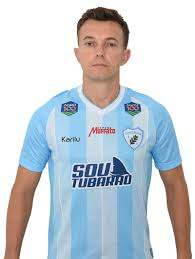
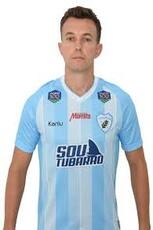
Add files via upload

diff --git a/index.html b/index.html
@@ -21,65 +21,22 @@
       <label for="menu" class="container__rotulo">
         <span class="cabeçalho__menu-hamburguer container__imagem"></span>
       </label>
-      <ul class="lista-menu">
-        <li class="lista-menu__titulo">Categorias</li>
-        <li class="lista-menu__item">
-          <a href="#" class="lista-menu__link">Programação</a>
-        </li>
-        <li class="lista-menu__item">
-          <a href="#" class="lista-menu__link">Front-end</a>
-        </li>
-        <li class="lista-menu__item">
-          <a href="#" class="lista-menu__link">Infraestrutura</a>
-        </li>
-        <li class="lista-menu__item">
-          <a href="#" class="lista-menu__link">Business</a>
-        </li>
-        <li class="lista-menu__item">
-          <a href="#" class="lista-menu__link">Design & UX</a>
-        </li>
       </ul>
-      <img src="img/Logo.svg" alt="Logo da Alurabooks" class="container__imagem">
-      <h1 class="container__titulo"><b class="container__titulo--negrito">Alura</b>Books</h1>
+      <img src="img/lec1.png" alt="Logo da Alurabooks" class="container__imagem">
+      <h1 class="container__titulo"><b class="container__titulo--negrito">Londrina</b> EC</h1>
 
       <ul class="opções">
         <input type="checkbox" id="opções-menu" class="opções__botão" />
         <label for="opções-menu" class="opções__rotulo">
-          <li class="opções__item">Categorias</li>
         </label>
 
         <ul class="lista-menu">
-          <li class="lista-menu__item">
-            <a href="#" class="lista-menu__link">Programação</a>
-          </li>
-          <li class="lista-menu__item">
-            <a href="#" class="lista-menu__link">Front-end</a>
-          </li>
-          <li class="lista-menu__item">
-            <a href="#" class="lista-menu__link">Infraestrutura</a>
-          </li>
-          <li class="lista-menu__item">
-            <a href="#" class="lista-menu__link">Business</a>
-          </li>
-          <li class="lista-menu__item">
-            <a href="#" class="lista-menu__link">Design & UX</a>
           </li>
         </ul>
-        <li class="opções__item"><a href="#" class="opções__link">Favoritos</a></li>
-        <li class="opções__item"><a href="#" class="opções__link">Minha estante</a></li>
       </ul>
 
     </div>
     <div class="container">
-      <a href="#"><img src="img/Favoritos.svg" alt="Meus favoritos"
-          class="container__imagem container__imagem-transparente"></a>
-      <a href="#" class="container__link">
-        <img src="img/Compras.svg" alt="Carrinhos de compras" class="container__imagem">
-        <p class="container__texto">Minha sacola</p>
-      </a>
-      <a href="#" class="container__link">
-        <img src="img/Usuario.svg" alt="Meu perfil" class="container__imagem">
-        <p class="container__texto">Meu perfil</p>
       </a>
     </div>
   </header>
@@ -176,26 +133,23 @@
         <div class="card__descrição">
           <!-- 1º coluna -->
           <div class="descrição">
-            <img src="img/Estrelinhas.svg" alt="Avaliação 5 estrelas">
-            <h3 class="descrição__titulo">Autora do Mês</h3>
-            <h2 class="descrição__titulo-livro">Juliana Agarikov</h2>
-            <p class="descrição__texto">Analista de sistemas e escritora, Juliana é especialista em
-              Front-End.
+            <img src="img/Estrelinhas.svg" alt="">
+            <h3 class="descrição__titulo">Próximo jogo</h3>
+            <h2 class="descrição__titulo-livro">Londrina x Naútico</h2>
+            <p class="descrição__texto">O JOGO DO ANO!!!
             </p>
           </div>
           <!-- 2º coluna -->
-          <img src="img/Escritora.svg" class="descrição__imagem">
+          <img src="img/lec.png" class="descrição__imagem">
         </div>
 
         <!-- 2º linha -->
         <div class="card__botões">
           <!-- 1º coluna -->
           <ul class="botões">
-            <li class="botões__item"><img src="img/Favoritos.svg" alt="Favoritar livro"></li>
-            <li class="botões__item"><img src="img/Compras.svg" alt="Adicionar no carrinho de compras"></li>
           </ul>
           <!-- 2º coluna -->
-          <a href="#" class="botões__ancora">Saiba mais</a>
+          <a href="https://www.google.com/search?q=londrina+x+nautico&oq=londrina+x+nau&gs_lcrp=EgZjaHJvbWUqDQgAEAAYgwEYsQMYgAQyDQgAEAAYgwEYsQMYgAQyBggBEAAYAzIGCAIQRRg5MgoIAxAAGA8YFhgeMgoIBBAAGIAEGKIEqAIAsAIA&sourceid=chrome&ie=UTF-8#sie=m;/g/11vyfd66jf;2;/m/0fnkby;dt;fp;1;;;" class="botões__ancora">Saiba mais</a>
         </div>
       </div>
     </div>
@@ -206,27 +160,18 @@
   <section class="tópicos">
     <h2 class="tópicos__titulo">TÓPICOS VISITADOS RECENTEMENTE</h2>
     <ul class="tópicos__lista">
-      <li class="tópicos__item"><a href="#" class="tópicos__link">Android</a></li>
+      <li class="tópicos__item"></li>
       <li class="tópicos__item">
-        <a href="#" class="tópicos__link">Marketing Digital</a>
+        <a href="https://pt.wikipedia.org/wiki/Londrina_Esporte_Clube" class="tópicos__link">História</a>
       </li>
       <li class="tópicos__item">
-        <a href="#" class="tópicos__link">Agile</a>
+        <a href="https://pt.wikipedia.org/wiki/Londrina_Esporte_Clube#T%C3%ADtulos" class="tópicos__link">Títulos</a>
       </li>
       <li class="tópicos__item">
-        <a href="#" class="tópicos__link">Startups</a>
+        <a href="https://www.londrinaesporteclube.com.br/futebol/profissional/elenco" class="tópicos__link">Elenco</a>
       </li>
       <li class="tópicos__item">
-        <a href="#" class="tópicos__link">HTML & CSS</a>
-      </li>
-      <li class="tópicos__item">
-        <a href="#" class="tópicos__link">Python</a>
-      </li>
-      <li class="tópicos__item">
-        <a href="#" class="tópicos__link">OO</a>
-      </li>
-      <li class="tópicos__item">
-        <a href="#" class="tópicos__link">Java</a>
+        <a href="https://pt.wikipedia.org/wiki/Est%C3%A1dio_do_Caf%C3%A9" class="tópicos__link">Estádio</a>
       </li>
     </ul>
   </section>
@@ -235,7 +180,7 @@
     <div class="contato__descrição">
       <h2 class="contato__titulo">Fique por dentro das novidades!</h2>
       <p class="contato__texto">
-        Atualizações de e-books, novos livros, promoções e outros.
+        Atualizações de próximos jogos, elenco, entre outras coisas do MAIOR DO INTERIOR.
       </p>
     </div>
     <input type="email" placeholder="        Cadastre seu e-mail" class="contato__email">
@@ -244,82 +189,8 @@
   <hr />
 
   <footer class="rodapé">
-    <h2 class="rodapé__titulo">Grupo Alura</h2>
-    <ul class="lista-rodapé">
-      <li class="lista-rodapé__titulo">Educação</li>
-      <li class="lista-rodapé__item">
-        <img src="img/Caelum.svg" alt="Logo da Caelum" />
-        <a href="#" class="lista-rodapé__link">Caelum</a>
-      </li>
-      <li class="lista-rodapé__item">
-        <img src="img/CasaDoCodigo.svg" alt="Logo da Casa do Código" />
-        <a href="#" class="lista-rodapé__link">Casa do Código</a>
-      </li>
-    </ul>
-
-    <ul class="lista-rodapé">
-      <li class="lista-rodapé__titulo">Educação online</li>
-      <li class="lista-rodapé__item">
-        <img src="img/Alura.svg" alt="Logo da Alura" />
-        <a href="#" class="lista-rodapé__link">Alura</a>
-      </li>
-      <li class="lista-rodapé__item">
-        <img src="img/AluraEmpresas.svg" alt="Logo da AluraParaEmpresas" />
-        <a href="#" class="lista-rodapé__link">Alura para Empresas</a>
-      </li>
-      <li class="lista-rodapé__item">
-        <img src="img/AluraLATAM.svg" alt="Logo da Alura Latam" />
-        <a href="#" class="lista-rodapé__link">Alura LATAM</a>
-      </li>
-      <li class="lista-rodapé__item">
-        <img src="img/AluraStart.svg" alt="Logo da Alura START" />
-        <a href="#" class="lista-rodapé__link">Alura Start</a>
-      </li>
-      <li class="lista-rodapé__item">
-        <img src="img/MusicDot.svg" alt="Logo da Music Dot" />
-        <a href="#" class="lista-rodapé__link">Music Dot</a>
-      </li>
-      <li class="lista-rodapé__item">
-        <img src="img/AluraLingua.svg" alt="Logo da Alura Lingua" />
-        <a href="#" class="lista-rodapé__link">Alura Língua</a>
-      </li>
-      <li class="lista-rodapé__item">
-        <img src="img/PM3.svg" alt="Logo da PM3" />
-        <a href="#" class="lista-rodapé__link">PM3</a>
-      </li>
-    </ul>
-
-    <ul class="lista-rodapé">
-      <li class="lista-rodapé__titulo">Comunidade</li>
-      <li class="lista-rodapé__item">
-        <img src="img/HipstersTech.svg" alt="Logo do Hipsters ponto Tech" />
-        <a href="#" class="lista-rodapé__link">Hipsters ponto Tech</a>
-      </li>
-      <li class="lista-rodapé__item">
-        <img src="img/ScubaDev.svg" alt="Logo do Scuba Dev" />
-        <a href="#" class="lista-rodapé__link">Scuba Dev</a>
-      </li>
-      <li class="lista-rodapé__item">
-        <img src="img/LayersTech.svg" alt="Logo do Layers ponto Tech" />
-        <a href="#" class="lista-rodapé__link">Layers ponto Tech</a>
-      </li>
-      <li class="lista-rodapé__item">
-        <img src="img/LikeABoss.svg" alt="Logo do Like a Boss" />
-        <a href="#" class="lista-rodapé__link">Like a Boss</a>
-      </li>
-      <li class="lista-rodapé__item">
-        <img src="img/CarreiraSemFronteira.svg" alt="Logo do Carreira sem fronteiras" />
-        <a href="#" class="lista-rodapé__link">Carreira sem fronteiras</a>
-      </li>
-      <li class="lista-rodapé__item">
-        <img src="img/HipstersJobs.svg" alt="Logo do Hipsters ponto jobs" />
-        <a href="#" class="lista-rodapé__link">Hipsters ponto jobs</a>
-      </li>
-      <li class="lista-rodapé__item">
-        <img src="img/GUJ.svg" alt="Logo do GUJ" />
-        <a href="#" class="lista-rodapé__link">GUJ</a>
-      </li>
-    </ul>
+    <h2 class="rodapé__titulo">Desenvolvido por João Antônio 2ºB | Última atualização: 23/08/2024</h2>
+ 
   </footer>
 
   <script src="https://cdn.jsdelivr.net/npm/swiper@11/swiper-bundle.min.js"></script>

diff --git a/styles/contato.css b/styles/contato.css
@@ -5,7 +5,7 @@
 
 .contato__titulo,
 .contato__texto {
-    background: var(--azul-degrade);
+    background: var(--azul-celeste);
     -webkit-background-clip: text;
     -webkit-text-fill-color: transparent;
     background-clip: text;
@@ -31,7 +31,7 @@
 
 .contato__email::placeholder {
     font-family: var(--fonte-principal);
-    color: var(--azul);
+    color: var(--azul-celeste);
     background: url("../img/Email.svg") no-repeat 5%;
     padding-left: 2em;
 }

diff --git a/styles/header.css b/styles/header.css
@@ -2,7 +2,7 @@
     width: 24px;
     height: 24px;
     display: inline-block;
-    background-image: url("../img/Menu.svg");
+    background-image: url("img/Menu.svg");
     background-repeat: no-repeat;
     background-position: center;
 }
@@ -69,6 +69,7 @@
 
 .container__titulo {
     display: none;
+    color: var(--azul-celeste);
 }
 
 .container__texto {

diff --git a/styles/rodapé.css b/styles/rodapé.css
@@ -4,6 +4,7 @@ hr {
 
 .rodapé {
     background-color: var(--branco);
+    color: var(--azul-celeste);
     padding: 1em;
 }
 
